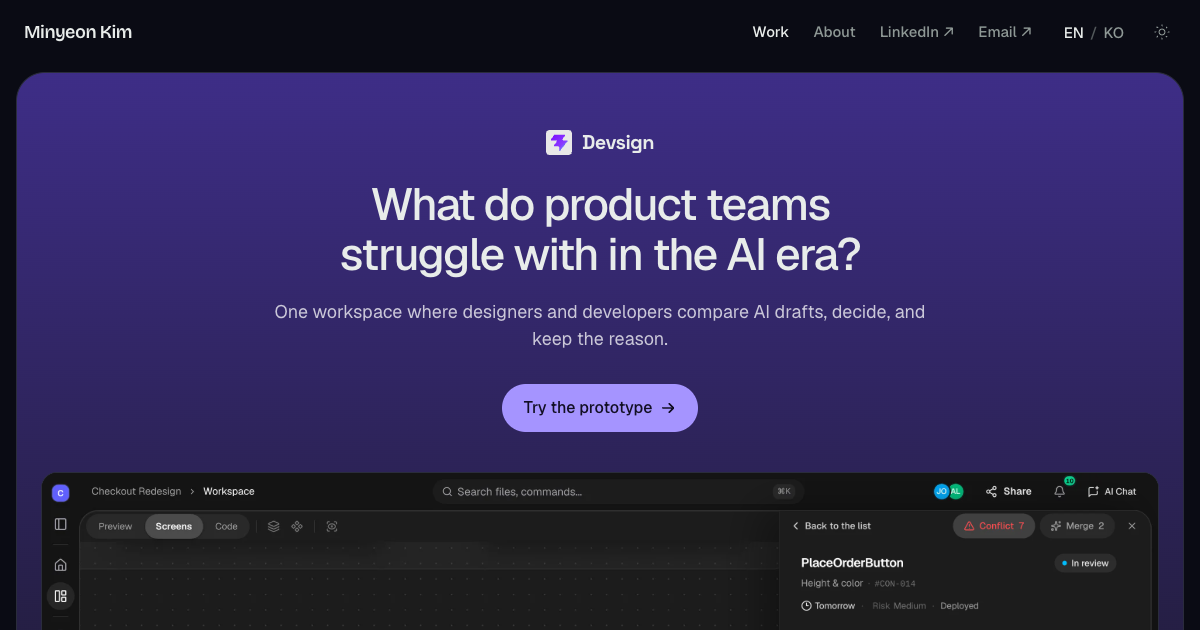
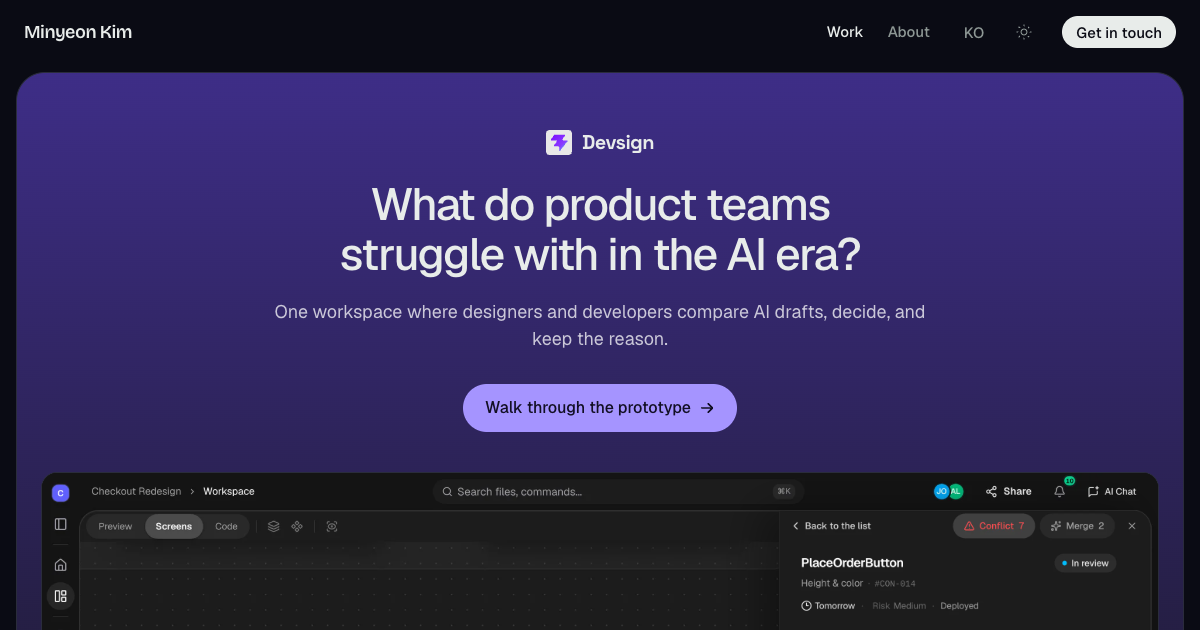
Header: name, two pages, language, theme and one Get in touch button
The bar stays full width when scrolled and gains a blurred ground and hairline,
replacing the floating bar that cut off text passing under it. LinkedIn and
Email leave the header (footer, About and the phone Menu keep them). Share
images retaken with the new header.

Changed region(s): [[0.37, 0.6032, 0.6167, 0.6937], [0.6783, 0.0, 0.9867, 0.0905], [0.6167, 0.0302, 0.6475, 0.0603]]

diff --git a/app/globals.css b/app/globals.css
@@ -1005,9 +1005,6 @@ details[open]::details-content {
 .intro-surface { padding-inline: var(--project-text-inset); }
 .intro-copy { max-width: none; padding-left: 0; }
 .site-menu-content { max-width: none; }
-@media (min-width: 48rem) {
-  [data-compact] > .site-header-bar { padding-inline: 24px; }
-}
 
 /* Align name, positioning, and prompt along one quiet left edge. */
 .intro-copy {
@@ -1577,8 +1574,6 @@ body:has(.selected-stage[data-gemini]) .project-rail { --picker-canvas: var(--ge
 .selected-stage-picker [role="tab"] { background: inherit; backdrop-filter: none; }
 [data-canvas] .selected-stage-picker { background: var(--devsign-canvas); }
 [data-gemini] .selected-stage-picker { background: var(--gemini-canvas); }
-body:has(.project-detail) header[data-compact] .site-header-bar,
-body:has(.project-selected) header[data-compact] .site-header-bar { background: var(--bg); backdrop-filter: none; }
 @media (max-width: 47.99rem) {
   .case-study:not([data-project="about"]) .case-section { padding-block: 48px; }
 }
@@ -1591,13 +1586,18 @@ body:has(.project-selected) header[data-compact] .site-header-bar { background: 
 .header-menu-trigger:hover, .header-menu-trigger[aria-expanded="true"] { background: transparent; box-shadow: inset 0 0 0 1px color-mix(in srgb, var(--ink) 70%, transparent); color: var(--ink); }
 .header-menu-trigger.theme-toggle { width: 28px; padding: 0; }
 .header-menu-trigger.theme-toggle svg { width: 13px; height: 13px; }
-.lang-toggle { position: relative; display: inline-flex; align-items: center; gap: 2px; height: 28px; padding: 2px; border-radius: 999px; background: light-dark(rgb(14 17 17 / 0.08), rgb(255 255 255 / 0.14)); box-shadow: inset 0 0 0 1px transparent; backdrop-filter: blur(30px); -webkit-backdrop-filter: blur(30px); }
-.lang-toggle-knob { position: absolute; top: 2px; left: 2px; width: 24px; height: 24px; border-radius: 50%; background: color-mix(in srgb, var(--ink) 14%, transparent); transition: translate 250ms var(--ease); }
-.lang-toggle[data-active="ko"] .lang-toggle-knob { translate: 26px 0; }
-.lang-toggle-option { position: relative; display: inline-flex; align-items: center; justify-content: center; width: 24px; height: 24px; border-radius: 50%; color: var(--muted); font-family: var(--font-mono); font-size: 16px; font-weight: 500; letter-spacing: 0.04em; text-decoration: none; transition: color 250ms ease; }
-.lang-toggle-option:hover, .lang-toggle-option[aria-current="page"] { color: var(--ink); }
-.lang-toggle-option:focus-visible { outline: 2px solid var(--accent); outline-offset: 2px; }
-@media (prefers-reduced-motion: reduce) { .lang-toggle-knob { transition: none; } }
+.lang-link { padding: 4px 2px; border-radius: 4px; color: var(--muted); font-size: 15px; font-weight: 500; line-height: 1.4; text-decoration: none; transition: color 150ms ease; }
+.lang-link:hover, .lang-link:focus-visible { color: var(--ink); }
+.lang-link:focus-visible { outline: 2px solid var(--accent); outline-offset: 2px; }
+.header-cta { display: none; align-items: center; height: 32px; margin-left: 8px; padding: 0 14px; border-radius: 999px; background: var(--ink); color: var(--bg); font-size: 15px; font-weight: 500; line-height: 1; white-space: nowrap; text-decoration: none; transition: background-color 150ms ease; }
+.header-cta:hover, .header-cta:focus-visible { background: color-mix(in srgb, var(--ink) 84%, var(--bg)); }
+.header-cta:focus-visible { outline: 2px solid var(--accent); outline-offset: 2px; }
+/* Once scrolled the bar keeps its place and shape; it gets a ground and a hairline, so text passing under it fades instead of being cut off. */
+.site-header-bar { transition: background-color 250ms ease, box-shadow 250ms ease; }
+@media (min-width: 48rem) {
+  .header-cta { display: inline-flex; }
+  [data-compact] .site-header-bar { background: color-mix(in srgb, var(--bg) 86%, transparent); box-shadow: inset 0 -1px 0 var(--line); backdrop-filter: blur(16px); -webkit-backdrop-filter: blur(16px); }
+}
 /* Page links in the bar (md+): plain words, no pills, so the header reads as one quiet line.
    The current page is in ink; the others muted, with the link underline on hover. Phones use the Menu. */
 .site-nav { display: none; margin-right: 16px; }
@@ -1624,9 +1624,6 @@ body:has(.project-selected) header[data-compact] .site-header-bar { background: 
 .header-menu-panel a:hover, .header-menu-panel a[aria-current="page"] { background: color-mix(in srgb, var(--bg) 40%, transparent); box-shadow: inset 0 0 0 1px color-mix(in srgb, var(--ink) 70%, transparent); }
 .header-menu-panel a:focus-visible, .header-menu-trigger:focus-visible { outline: 2px solid var(--accent); outline-offset: 2px; }
 .header-menu-contact { display: flex; flex-direction: column; align-items: flex-end; gap: 8px; margin-top: 16px; }
-@media (min-width: 48rem) {
-  [data-compact] .header-menu-trigger, [data-compact] .lang-toggle { background: transparent; backdrop-filter: none; }
-}
 @media (prefers-reduced-motion: no-preference) {
   .header-menu-panel { animation: header-menu-enter 180ms cubic-bezier(0.2, 0.8, 0.2, 1) both; }
 }
@@ -2520,7 +2517,7 @@ html:lang(ko) :is(.case-eyebrow, .case-media-note, .case-gallery-heading, .case-
 .home-world[data-project="about"] { background: radial-gradient(60% 55% at 70% 28%, rgb(202 215 228 / 0.1), transparent 70%), radial-gradient(50% 50% at 24% 82%, rgb(128 112 183 / 0.14), transparent 70%); }
 .home-backdrop .home-object { transition: opacity 700ms ease; }
 .intro-stage.home-stage { transition: color 500ms ease; }
-header[data-home] .header-menu-trigger, header[data-home] .lang-toggle, header[data-home] .lang-toggle-option { transition-property: background-color, box-shadow, color; }
+header[data-home] .header-menu-trigger { transition-property: background-color, box-shadow, color; }
 /* The world's copy: role top centre, the name large left of centre, the problem bottom right. */
 /* Leaving is quick, up; arriving is staggered (role, name, then the paragraph), so a switch reads as out-then-in. */
 .home-world-role, .home-world-name, .home-world-problem { --stagger: 0ms; position: absolute; margin: 0; color: var(--ink); opacity: 0; translate: 0 16px; filter: blur(6px); pointer-events: none; transition: opacity 380ms ease, translate 380ms var(--ease-out-soft), filter 380ms ease; }
@@ -3332,11 +3329,6 @@ header[data-home] .header-menu-trigger, header[data-home] .lang-toggle, header[d
 
 /* Header right side reads as one line of words: EN / KO and the theme icon drop their pills
    and take the page links' type (Geist 15/500, muted, current in ink). */
-.site-header-bar .lang-toggle { gap: 0; height: auto; padding: 0; background: none; box-shadow: none; backdrop-filter: none; -webkit-backdrop-filter: none; }
-.site-header-bar .lang-toggle-knob { display: none; }
-.site-header-bar .lang-toggle-option { width: auto; height: auto; border-radius: 4px; font-family: var(--font-sans); font-size: 15px; font-weight: 500; letter-spacing: 0; line-height: 1.4; }
-.site-header-bar .lang-toggle-option + .lang-toggle-option::before { content: "/"; margin: 0 6px; color: color-mix(in srgb, var(--muted) 55%, transparent); }
-.site-header-bar .lang-toggle-option:focus-visible { outline-offset: 4px; }
 .site-header-bar .header-menu-trigger.theme-toggle { margin-left: 8px; color: var(--muted); background: none; box-shadow: none; backdrop-filter: none; -webkit-backdrop-filter: none; }
 .site-header-bar .header-menu-trigger.theme-toggle:hover { color: var(--ink); background: none; box-shadow: none; }
 .site-header-bar .header-menu-trigger.theme-toggle svg { width: 16px; height: 16px; }

diff --git a/components/site-header.tsx b/components/site-header.tsx
@@ -6,26 +6,22 @@ import { HeaderShell } from "./header-shell";
 import { SiteMenu } from "./site-menu";
 import { ThemeToggle } from "./theme-toggle";
 import { LangToggle } from "./lang-toggle";
-import { SiteNav } from "./site-nav";
+import { GetInTouch, SiteNav } from "./site-nav";
 
-// The name at the left edge; the page links, EN | KO and theme at the right
-// edge. The links are always in view on md+; phones fold them into the Menu.
+// The name at the left edge; the two pages, the other language, theme and the
+// one clear action (Get in touch) at the right. Phones fold the links into the Menu.
 export async function SiteHeader() {
   const hasResume = fs.existsSync(path.join(process.cwd(), "public", site.resumeUrl));
 
   return (
     <HeaderShell>
-      {/*
-        Controls sit at the screen edges (not the content width). After a little
-        scroll (md+) they fold into one compact floating pill; inside it the
-        buttons drop their own pill backgrounds, so there is never a pill in a pill.
-      */}
-      <div className="site-header-bar mx-auto grid max-w-full grid-cols-[auto_1fr] items-center gap-2 py-[18px] transition-[max-width,margin,padding,background-color,border-color] duration-400 ease-standard md:group-data-compact/header:my-1 md:group-data-compact/header:max-w-[720px] md:group-data-compact/header:rounded-full md:group-data-compact/header:bg-surface/70 md:group-data-compact/header:py-1 md:group-data-compact/header:backdrop-blur-md">
+      <div className="site-header-bar grid min-h-[64px] grid-cols-[auto_1fr] items-center gap-2">
         <HomeLink className="header-name whitespace-nowrap">{site.name}</HomeLink>
         <div className="flex items-center justify-end gap-2">
-          <SiteNav email={site.email} linkedinUrl={site.linkedinUrl} resumeUrl={hasResume ? site.resumeUrl : undefined} />
+          <SiteNav resumeUrl={hasResume ? site.resumeUrl : undefined} />
           <LangToggle />
           <ThemeToggle />
+          <GetInTouch email={site.email} />
           <SiteMenu
             contact={{
               email: site.email,

diff --git a/components/site-nav.tsx b/components/site-nav.tsx
@@ -8,9 +8,7 @@ import { localeOf, localize, stripLocale, ui } from "@/lib/i18n";
 
 // The page links, always in view at the top (md+): there are only a few, so
 // they don't hide behind a Menu button. Phones keep the Menu (SiteMenu).
-type Props = { email: string; linkedinUrl: string; resumeUrl?: string };
-
-export function SiteNav({ email, linkedinUrl, resumeUrl }: Props) {
+export function SiteNav({ resumeUrl }: { resumeUrl?: string }) {
   const pathname = usePathname() ?? "/";
   const locale = localeOf(pathname);
   const page = stripLocale(pathname);
@@ -22,9 +20,13 @@ export function SiteNav({ email, linkedinUrl, resumeUrl }: Props) {
         <li aria-current={current(page === "/" || page.startsWith("/work/"))}><HomeLink>{t.work}</HomeLink></li>
         <li><Link href={localize("/about/", locale)} aria-current={current(page.startsWith("/about"))}>{t.about}</Link></li>
         {resumeUrl && <li><a href={withBase(resumeUrl)}>{t.resume}</a></li>}
-        {linkedinUrl && <li><a href={linkedinUrl}>LinkedIn<span aria-hidden="true"> ↗</span></a></li>}
-        {email && <li><a href={`mailto:${email}`}>{t.email}<span aria-hidden="true"> ↗</span></a></li>}
       </ul>
     </nav>
   );
+}
+
+// The header's one filled button (md+): the thing a visitor is most likely here to do.
+export function GetInTouch({ email }: { email: string }) {
+  const locale = localeOf(usePathname() ?? "/");
+  return <a href={`mailto:${email}`} className="header-cta press">{ui[locale].getInTouch}</a>;
 }

diff --git a/components/lang-toggle.tsx b/components/lang-toggle.tsx
@@ -4,22 +4,14 @@ import Link from "next/link";
 import { usePathname } from "next/navigation";
 import { localeOf, localize, stripLocale, ui } from "@/lib/i18n";
 
-// EN | KO beside the theme toggle: two round faces in one pill, with a filled
-// round knob that slides behind the current language. Each face links to the
-// same page in the other language.
+// The other language, as one quiet link to the same page in that language.
 export function LangToggle() {
   const pathname = usePathname() ?? "/";
   const locale = localeOf(pathname);
-  const page = stripLocale(pathname);
-  const t = ui[locale];
+  const other = locale === "en" ? "ko" : "en";
   return (
-    <nav aria-label={t.languageLabel} className="lang-toggle" data-active={locale}>
-      <span className="lang-toggle-knob" aria-hidden="true" />
-      {(["en", "ko"] as const).map((code) => (
-        <Link key={code} href={localize(page, code)} hrefLang={code} lang={code} aria-current={locale === code ? "page" : undefined} className="press lang-toggle-option">
-          {code === "en" ? "EN" : "KO"}
-        </Link>
-      ))}
-    </nav>
+    <Link href={localize(stripLocale(pathname), other)} hrefLang={other} lang={other} aria-label={ui[locale].languageLabel} className="lang-link">
+      {other === "en" ? "EN" : "KO"}
+    </Link>
   );
 }

diff --git a/lib/i18n.ts b/lib/i18n.ts
@@ -22,6 +22,7 @@ export const ui = {
     work: "Work",
     about: "About",
     email: "Email",
+    getInTouch: "Get in touch",
     linkedin: "LinkedIn",
     resume: "Resume",
     language: "한국어",
@@ -101,6 +102,7 @@ export const ui = {
     work: "작업",
     about: "소개",
     email: "이메일",
+    getInTouch: "연락하기",
     linkedin: "LinkedIn",
     resume: "이력서",
     language: "English",

diff --git a/claude.md b/claude.md
@@ -977,3 +977,5 @@ Core feature text: the problem answered sits under a hairline as its own label +
 About states no target industry (owner: not true): the Focus fact and "especially in privacy, security and developer tools" are gone, three facts remain. Contact reads "Open to product designer and design engineer roles." / "프로덕트 디자이너와 디자인 엔지니어 포지션을 찾고 있습니다."
 Next project on case pages is its own closing sheet (owner: it read as part of the case): 120-160px below the case, a full-bleed sheet with a rounded top in the next project's colour falling into the footer, a clear "Next project" label, the name at 40-80px with the arrow, one sentence, and its screen large on the right, cropped by the sheet. The whole sheet is the link; on hover the screen rises. About keeps the deck. Figma not updated.
 Plainer core feature titles and Conflict Points points (EN/KO). Usability results are one chart (`.dv-bars`): a bar per score filling on reveal, a marker for its goal or the SUS 68 average (`scores[].target`), red when it misses (`missed`, `below`), then one line per success goal with its verdict (supersedes the verdict panel + rows). Affinity (findings first): 201 → 7 → 4 as big numbers (`affinity.funnel`), the board as evidence, then each theme as a bar proportional to its cards leading to its problem (`.dv-aff`; only the six themes that led to a problem; the seventh isn't mapped). Iterations: the reason is a labelled callout under the heading (`whyLabel`, `.dv-iter-why`), As-is smaller to To-be larger with an arrow and an accent edge. Figma not updated.
+
+Header is the A option (after Linear and Railway; supersedes every compact floating pill, EN / KO and page-link note above): full width at every scroll, 64px tall. Name at the left edge; at the right the pages (Work, About, Resume once the PDF exists), the other language as one word (LangToggle links to the same page), the theme icon and one filled pill, Get in touch / 연락하기 (32px, ink fill, mailto). Below md: name, language, theme, Menu; Get in touch and LinkedIn are in the Menu. LinkedIn left the header (footer and About keep it). Once scrolled (`data-compact`) the bar keeps its shape and gains a blurred 86% ground and a hairline, replacing the opaque 720px bar that cut off text passing under it. Figma not updated.
